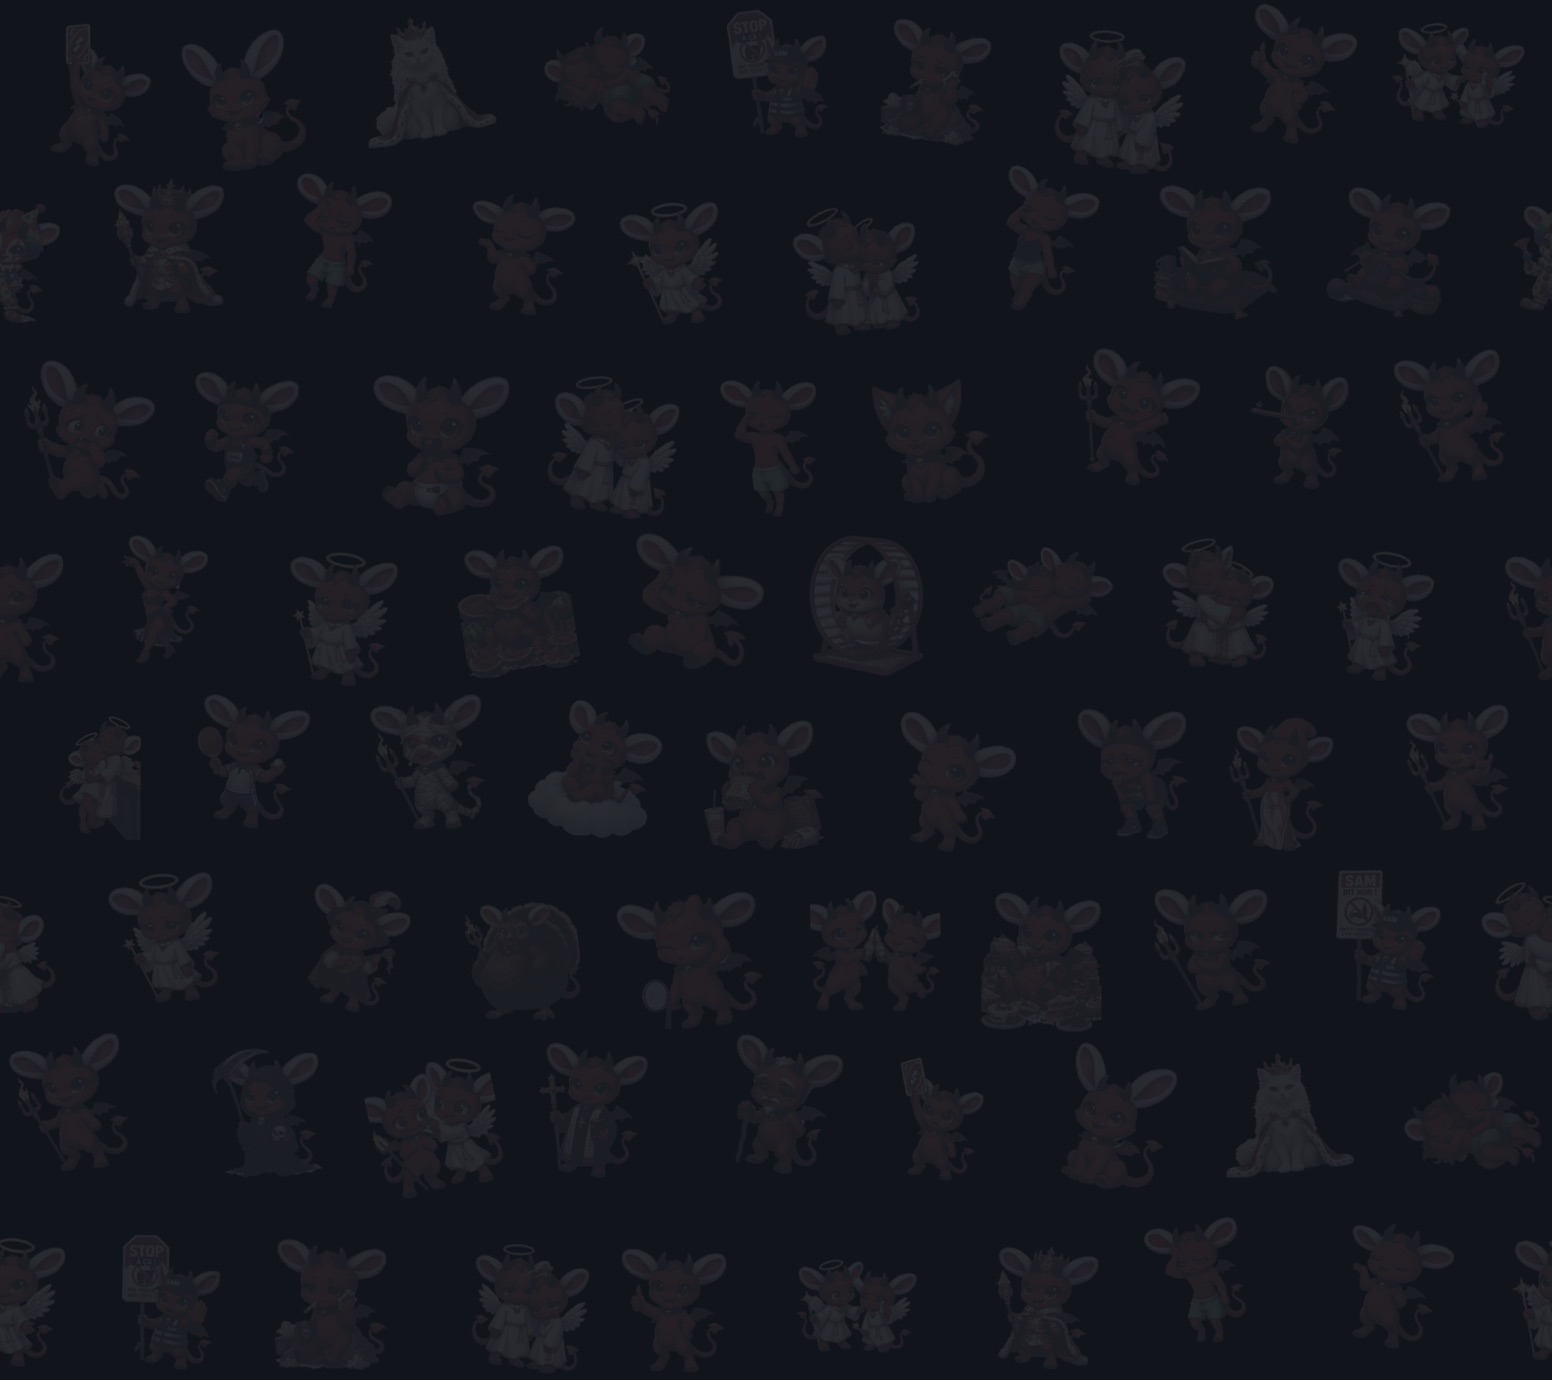
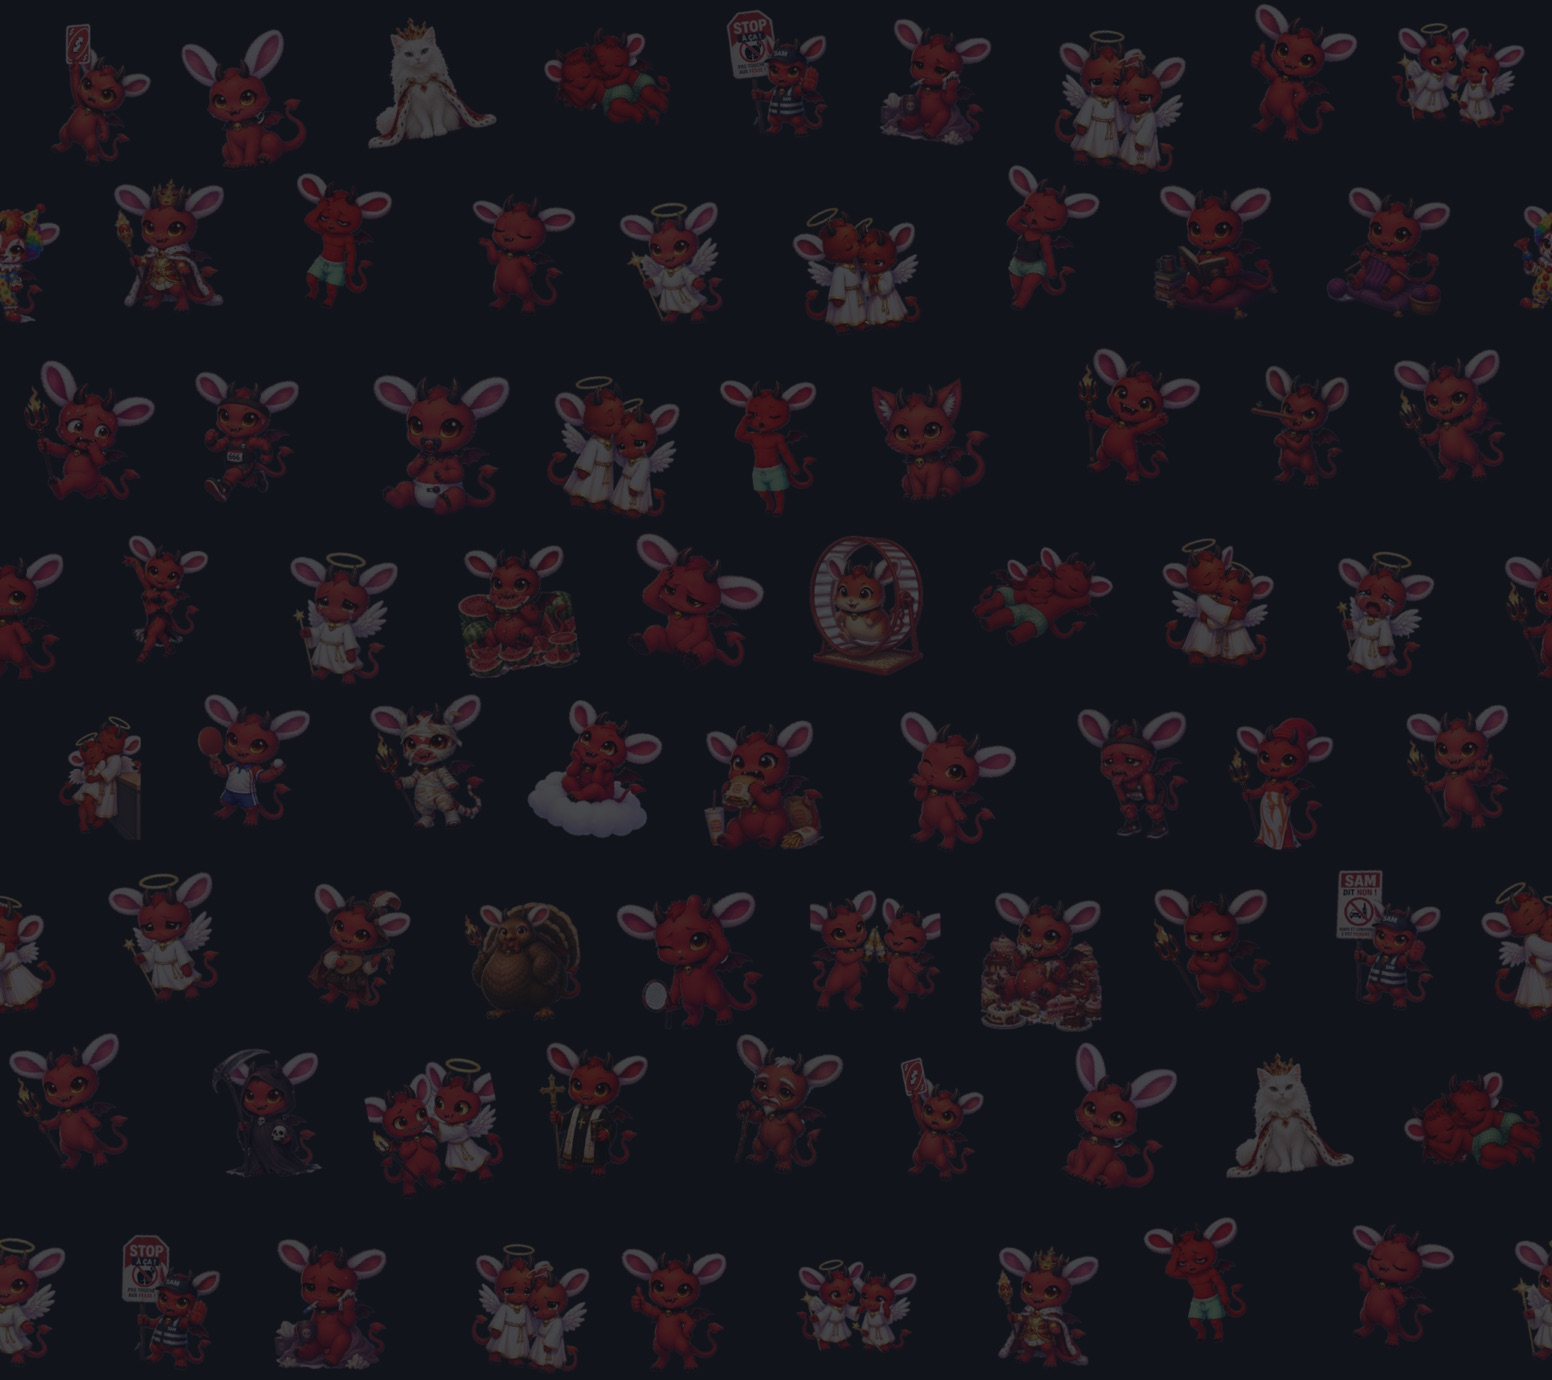
Fond sombre aux couleurs d'origine des bonhommes
En mode sombre, le motif désaturé donnait un gris terne : il garde
maintenant les vraies couleurs, en transparence sur le fond noir.
tools/stickers.swift accepte la saturation et la luminosité en options.

diff --git a/tools/stickers.swift b/tools/stickers.swift
@@ -1,5 +1,6 @@
 // Détoure les bonhommes (fond blanc) et les adoucit pour le motif de fond.
-// Usage : swift tools/stickers.swift <dossier images> <dossier sortie> [taille max, défaut 260]
+// Usage : swift tools/stickers.swift <dossier images> <dossier sortie> [taille max, défaut 260] [saturation, défaut 0.55] [luminosité, défaut 0.06]
+// (saturation 1 et luminosité 0 = couleurs d'origine)
 // Chaque image produit <nom>.png : sujet détouré, recadré, désaturé et éclairci.
 import Foundation
 import CoreImage
@@ -10,6 +11,8 @@ let args = CommandLine.arguments
 guard args.count >= 3 else { print("usage: stickers <in> <out> [max]"); exit(1) }
 let inDir = URL(fileURLWithPath: args[1]), outDir = URL(fileURLWithPath: args[2])
 let maxSide = CGFloat(args.count > 3 ? Double(args[3])! : 260)
+let saturation = Float(args.count > 4 ? Double(args[4])! : 0.55)
+let brightness = Float(args.count > 5 ? Double(args[5])! : 0.06)
 try FileManager.default.createDirectory(at: outDir, withIntermediateDirectories: true)
 
 let exts = ["jpg", "jpeg", "png", "webp", "heic"]
@@ -31,7 +34,7 @@ for url in files {
 
   // Adoucir : moins saturé, un peu plus clair
   let cc = CIFilter.colorControls()
-  cc.inputImage = img; cc.saturation = 0.55; cc.brightness = 0.06; cc.contrast = 0.85
+  cc.inputImage = img; cc.saturation = saturation; cc.brightness = brightness; cc.contrast = saturation >= 1 ? 1 : 0.85
   img = cc.outputImage!
 
   let s = min(1, maxSide / max(img.extent.width, img.extent.height))
